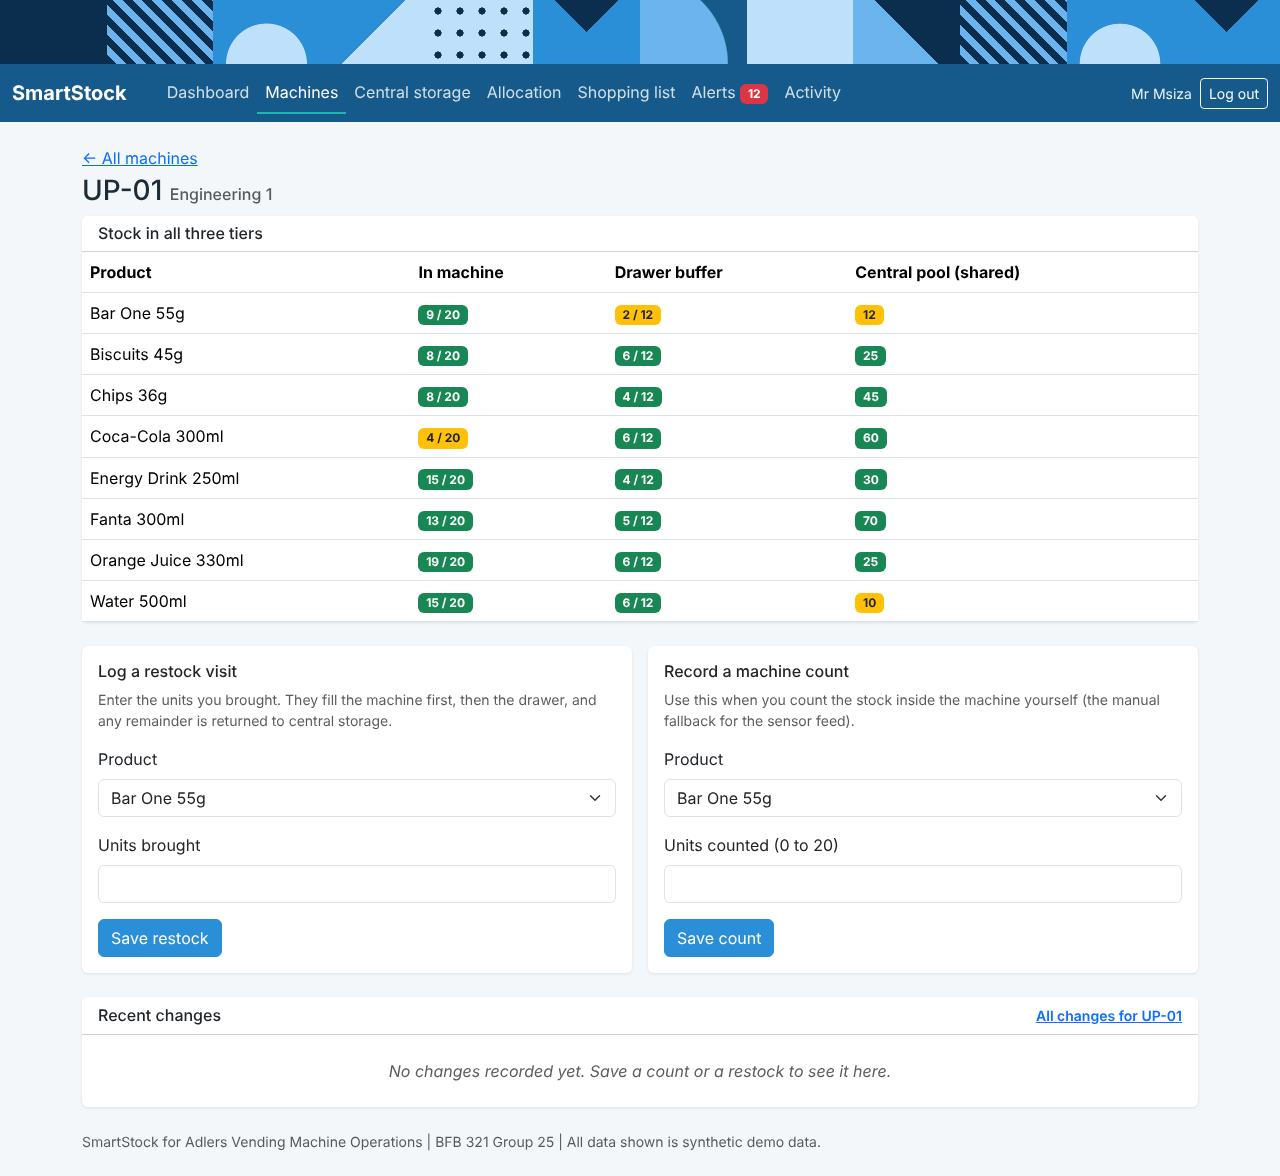
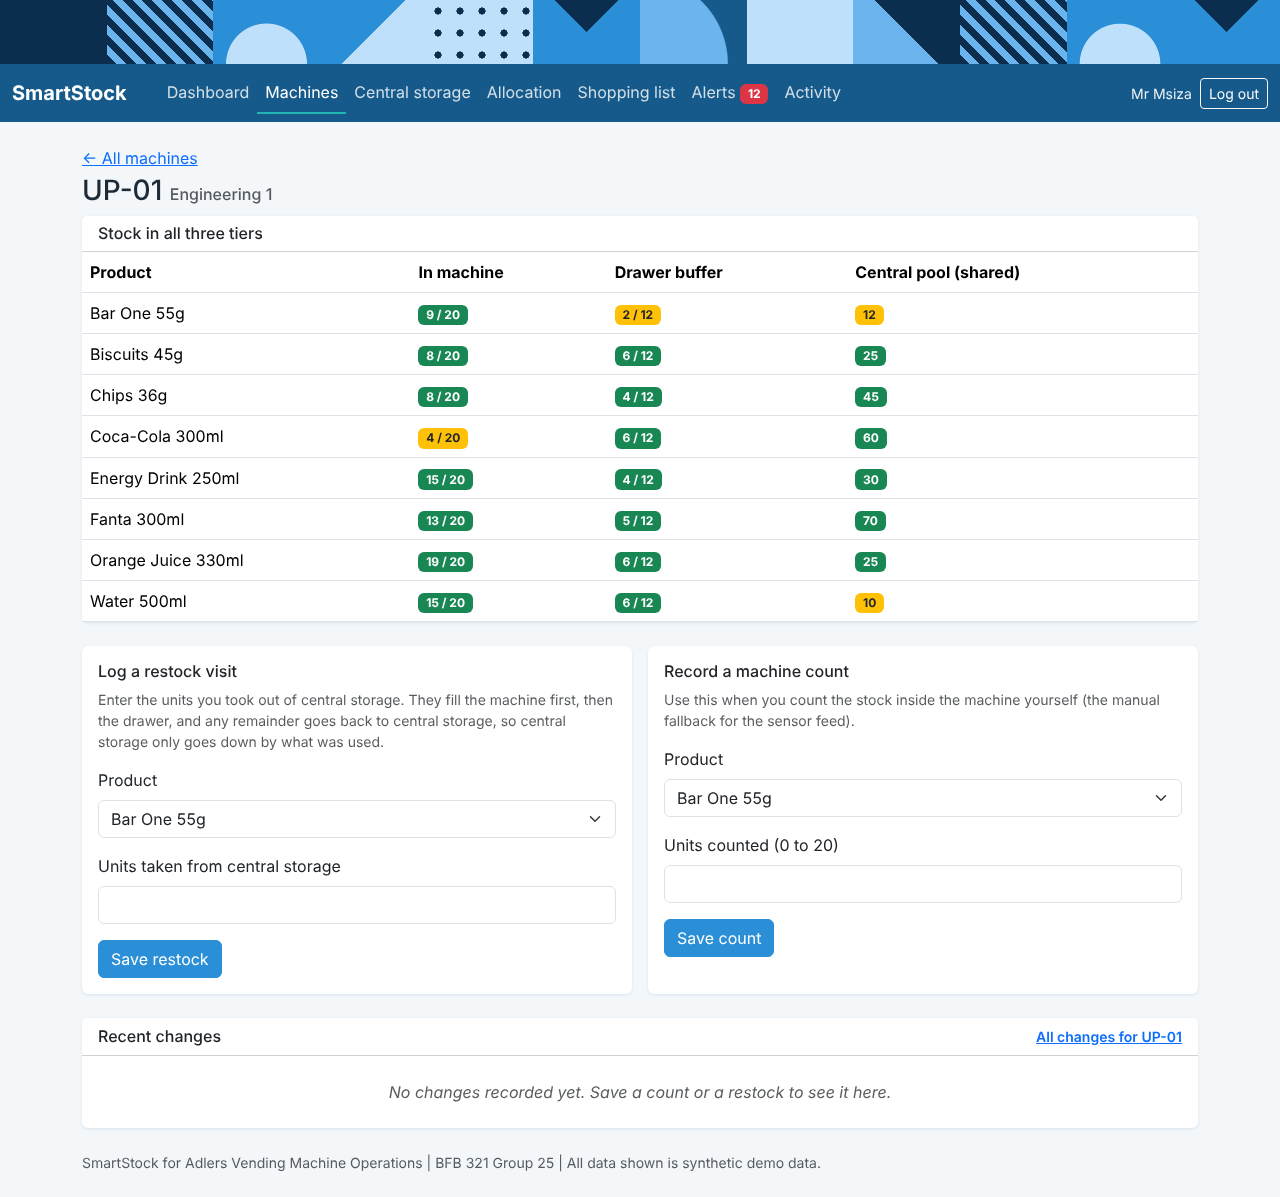
Screenshots retaken with the new restock rule

diff --git a/scripts/capture_screenshots.py b/scripts/capture_screenshots.py
@@ -76,7 +76,7 @@ def main():
         page.goto(f"{base}/machines/1")
         shot(page, "04_flow1_machine_up01_before")
         page.get_by_label("Product").first.select_option(label="Coca-Cola 300ml")
-        page.get_by_label("Units brought").fill("30")
+        page.get_by_label("Units taken from central storage").fill("30")
         page.get_by_role("button", name="Save restock").click()
         expect(page.get_by_role("status")).to_contain_text("Restock saved")
         shot(page, "05_flow1_restock_saved")

diff --git a/scripts/impact_report.py b/scripts/impact_report.py
@@ -1,4 +1,4 @@
-"""Compute the impact numbers and draw the charts for docs/impact_report.md.
+"""Compute the impact numbers and draw the charts for the impact report (SmartStock_Impact_Report.docx).
 
 Every "with SmartStock" number comes from the app itself, run on the synthetic demo
 data (an in-memory database, so nothing real is touched). Baseline numbers come from
